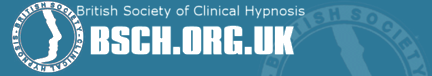
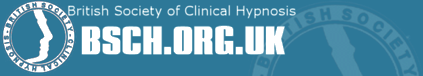
change colors as per Sue's design

diff --git a/css/app.css b/css/app.css
@@ -1518,7 +1518,7 @@ select {
   position: relative;
   padding: 0.875rem 1.5rem 0.875rem 0.875rem;
   font-size: 0.8125rem;
-  background-color: #2e72b5;
+  background-color: #1d71b8;
   border-color: #28629c;
   color: white;
 }
@@ -1562,7 +1562,7 @@ select {
 }
 /* line 116, ../bower_components/foundation/scss/foundation/components/_alert-boxes.scss */
 .alert-box.secondary {
-  background-color: #1a456d;
+  background-color: #0051a0;
   border-color: #163b5e;
   color: white;
 }
@@ -3309,7 +3309,7 @@ select {
 .breadcrumbs > * a,
 .breadcrumbs > * span {
   text-transform: uppercase;
-  color: #2e72b5;
+  color: #1d71b8;
 }
 /* line 75, ../bower_components/foundation/scss/foundation/components/_breadcrumbs.scss */
 .breadcrumbs > *.current {
@@ -3373,7 +3373,7 @@ button, .button {
   padding-left: 2rem;
   font-size: 1rem;
   /*     @else                            { font-size: $padding - rem-calc(2); } */
-  background-color: #2e72b5;
+  background-color: #1d71b8;
   border-color: #255b91;
   color: white;
   -webkit-transition: background-color 300ms ease-out;
@@ -3396,7 +3396,7 @@ button:hover, button:focus, .button:hover, .button:focus {
 }
 /* line 209, ../bower_components/foundation/scss/foundation/components/_buttons.scss */
 button.secondary, .button.secondary {
-  background-color: #1a456d;
+  background-color: #0051a0;
   border-color: #153757;
   color: white;
 }
@@ -3491,7 +3491,7 @@ button.round, .button.round {
 }
 /* line 224, ../bower_components/foundation/scss/foundation/components/_buttons.scss */
 button.disabled, button[disabled], .button.disabled, .button[disabled] {
-  background-color: #2e72b5;
+  background-color: #1d71b8;
   border-color: #255b91;
   color: white;
   cursor: default;
@@ -3509,11 +3509,11 @@ button.disabled:hover, button.disabled:focus, button[disabled]:hover, button[dis
 }
 /* line 170, ../bower_components/foundation/scss/foundation/components/_buttons.scss */
 button.disabled:hover, button.disabled:focus, button[disabled]:hover, button[disabled]:focus, .button.disabled:hover, .button.disabled:focus, .button[disabled]:hover, .button[disabled]:focus {
-  background-color: #2e72b5;
+  background-color: #1d71b8;
 }
 /* line 225, ../bower_components/foundation/scss/foundation/components/_buttons.scss */
 button.disabled.secondary, button[disabled].secondary, .button.disabled.secondary, .button[disabled].secondary {
-  background-color: #1a456d;
+  background-color: #0051a0;
   border-color: #153757;
   color: white;
   cursor: default;
@@ -3531,7 +3531,7 @@ button.disabled.secondary:hover, button.disabled.secondary:focus, button[disable
 }
 /* line 170, ../bower_components/foundation/scss/foundation/components/_buttons.scss */
 button.disabled.secondary:hover, button.disabled.secondary:focus, button[disabled].secondary:hover, button[disabled].secondary:focus, .button.disabled.secondary:hover, .button.disabled.secondary:focus, .button[disabled].secondary:hover, .button[disabled].secondary:focus {
-  background-color: #1a456d;
+  background-color: #0051a0;
 }
 /* line 226, ../bower_components/foundation/scss/foundation/components/_buttons.scss */
 button.disabled.success, button[disabled].success, .button.disabled.success, .button[disabled].success {
@@ -5199,7 +5199,7 @@ kbd {
   margin-bottom: inherit;
   padding: 0.25rem 0.5rem 0.375rem;
   font-size: 0.6875rem;
-  background-color: #2e72b5;
+  background-color: #1d71b8;
   color: white;
 }
 /* line 96, ../bower_components/foundation/scss/foundation/components/_labels.scss */
@@ -5224,7 +5224,7 @@ kbd {
 }
 /* line 101, ../bower_components/foundation/scss/foundation/components/_labels.scss */
 .label.secondary {
-  background-color: #1a456d;
+  background-color: #0051a0;
   color: white;
 }
 
@@ -5733,14 +5733,14 @@ ul.pagination li.unavailable:hover a, ul.pagination li.unavailable a:focus {
 }
 /* line 64, ../bower_components/foundation/scss/foundation/components/_pagination.scss */
 ul.pagination li.current a {
-  background: #2e72b5;
+  background: #1d71b8;
   color: white;
   font-weight: bold;
   cursor: default;
 }
 /* line 71, ../bower_components/foundation/scss/foundation/components/_pagination.scss */
 ul.pagination li.current a:hover, ul.pagination li.current a:focus {
-  background: #2e72b5;
+  background: #1d71b8;
 }
 /* line 124, ../bower_components/foundation/scss/foundation/components/_pagination.scss */
 ul.pagination li {
@@ -5822,7 +5822,7 @@ ul.pagination li {
 }
 /* line 78, ../bower_components/foundation/scss/foundation/components/_panels.scss */
 .panel.callout a:not(.button) {
-  color: #2e72b5;
+  color: #1d71b8;
 }
 /* line 83, ../bower_components/foundation/scss/foundation/components/_panels.scss */
 .panel.radius {
@@ -5901,13 +5901,13 @@ ul.pagination li {
 }
 /* line 61, ../bower_components/foundation/scss/foundation/components/_progress-bars.scss */
 .progress .meter {
-  background: #2e72b5;
+  background: #1d71b8;
   height: 100%;
   display: block;
 }
 /* line 64, ../bower_components/foundation/scss/foundation/components/_progress-bars.scss */
 .progress.secondary .meter {
-  background: #1a456d;
+  background: #0051a0;
   height: 100%;
   display: block;
 }
@@ -5991,7 +5991,7 @@ ul.pagination li {
 }
 /* line 130, ../bower_components/foundation/scss/foundation/components/_range-slider.scss */
 .range-slider.radius .range-slider-handle {
-  background: #2e72b5;
+  background: #1d71b8;
   -webkit-border-radius: 3px;
   border-radius: 3px;
 }
@@ -6007,7 +6007,7 @@ ul.pagination li {
 }
 /* line 134, ../bower_components/foundation/scss/foundation/components/_range-slider.scss */
 .range-slider.round .range-slider-handle {
-  background: #2e72b5;
+  background: #1d71b8;
   -webkit-border-radius: 1000px;
   border-radius: 1000px;
 }
@@ -6034,7 +6034,7 @@ ul.pagination li {
   height: 1.375rem;
   border: 1px solid none;
   cursor: pointer;
-  background: #2e72b5;
+  background: #1d71b8;
 }
 /* line 99, ../bower_components/foundation/scss/foundation/components/_range-slider.scss */
 .range-slider-handle:hover {
@@ -6214,7 +6214,7 @@ dialog[open] {
 /* line 66, ../bower_components/foundation/scss/foundation/components/_side-nav.scss */
 .side-nav li a:not(.button) {
   display: block;
-  color: #2e72b5;
+  color: #1d71b8;
 }
 /* line 70, ../bower_components/foundation/scss/foundation/components/_side-nav.scss */
 .side-nav li a:not(.button):hover, .side-nav li a:not(.button):focus {
@@ -6419,7 +6419,7 @@ dialog[open] {
   -webkit-border-radius: 3px;
   border-radius: 3px;
   font-weight: normal;
-  background: #2e72b5;
+  background: #1d71b8;
   padding: 0.1875rem 1rem;
   cursor: default;
   color: white;
@@ -6867,7 +6867,7 @@ table tfoot tr td {
 /* line 44, ../bower_components/foundation/scss/foundation/components/_tooltips.scss */
 .has-tip:hover, .has-tip:focus {
   border-bottom: dotted 1px #153351;
-  color: #2e72b5;
+  color: #1d71b8;
 }
 /* line 50, ../bower_components/foundation/scss/foundation/components/_tooltips.scss */
 .has-tip.tip-left, .has-tip.tip-right {
@@ -6921,7 +6921,7 @@ table tfoot tr td {
 }
 /* line 93, ../bower_components/foundation/scss/foundation/components/_tooltips.scss */
 .tooltip.opened {
-  color: #2e72b5 !important;
+  color: #1d71b8 !important;
   border-bottom: dotted 1px #153351 !important;
 }
 
@@ -6976,7 +6976,7 @@ meta.foundation-mq-topbar {
 /* line 108, ../bower_components/foundation/scss/foundation/components/_top-bar.scss */
 .contain-to-grid {
   width: 100%;
-  background: #2e72b5;
+  background: #1d71b8;
 }
 /* line 112, ../bower_components/foundation/scss/foundation/components/_top-bar.scss */
 .contain-to-grid .top-bar {
@@ -7016,7 +7016,7 @@ meta.foundation-mq-topbar {
   height: 30px;
   line-height: 30px;
   position: relative;
-  background: #2e72b5;
+  background: #1d71b8;
   margin-bottom: 10px;
 }
 /* line 151, ../bower_components/foundation/scss/foundation/components/_top-bar.scss */
@@ -7125,7 +7125,7 @@ meta.foundation-mq-topbar {
 }
 /* line 261, ../bower_components/foundation/scss/foundation/components/_top-bar.scss */
 .top-bar.expanded .title-area {
-  background: #2e72b5;
+  background: #1d71b8;
 }
 /* line 264, ../bower_components/foundation/scss/foundation/components/_top-bar.scss */
 .top-bar.expanded .toggle-topbar a {
@@ -7151,7 +7151,7 @@ meta.foundation-mq-topbar {
   width: 100%;
   height: auto;
   display: block;
-  background: #1a456d;
+  background: #0051a0;
   font-size: 16px;
   margin: 0;
 }
@@ -7174,11 +7174,11 @@ meta.foundation-mq-topbar {
   font-size: 0.8125rem;
   font-weight: normal;
   text-transform: none;
-  background: #1a456d;
+  background: #0051a0;
 }
 /* line 321, ../bower_components/foundation/scss/foundation/components/_top-bar.scss */
 .top-bar-section ul li > a.button {
-  background: #2e72b5;
+  background: #1d71b8;
   font-size: 0.8125rem;
   padding-right: 10px;
   padding-left: 10px;
@@ -7189,7 +7189,7 @@ meta.foundation-mq-topbar {
 }
 /* line 330, ../bower_components/foundation/scss/foundation/components/_top-bar.scss */
 .top-bar-section ul li > a.button.secondary {
-  background: #1a456d;
+  background: #0051a0;
 }
 /* line 332, ../bower_components/foundation/scss/foundation/components/_top-bar.scss */
 .top-bar-section ul li > a.button.secondary:hover {
@@ -7213,12 +7213,12 @@ meta.foundation-mq-topbar {
 }
 /* line 352, ../bower_components/foundation/scss/foundation/components/_top-bar.scss */
 .top-bar-section ul li:hover:not(.has-form) > a {
-  background: #1a456d;
+  background: #0051a0;
   color: white;
 }
 /* line 359, ../bower_components/foundation/scss/foundation/components/_top-bar.scss */
 .top-bar-section ul li.active > a {
-  background: #1a456d;
+  background: #0051a0;
   color: white;
 }
 /* line 362, ../bower_components/foundation/scss/foundation/components/_top-bar.scss */
@@ -7331,7 +7331,7 @@ meta.foundation-mq-topbar {
 @media only screen and (min-width: 40.063em) {
   /* line 447, ../bower_components/foundation/scss/foundation/components/_top-bar.scss */
   .top-bar {
-    background: #2e72b5;
+    background: #1d71b8;
     *zoom: 1;
     overflow: visible;
   }
@@ -7365,7 +7365,7 @@ meta.foundation-mq-topbar {
   }
   /* line 464, ../bower_components/foundation/scss/foundation/components/_top-bar.scss */
   .top-bar.expanded {
-    background: #2e72b5;
+    background: #1d71b8;
   }
 
   /* line 467, ../bower_components/foundation/scss/foundation/components/_top-bar.scss */
@@ -7398,18 +7398,18 @@ meta.foundation-mq-topbar {
   }
   /* line 490, ../bower_components/foundation/scss/foundation/components/_top-bar.scss */
   .top-bar-section li.hover > a:not(.button) {
-    background: #1a456d;
+    background: #0051a0;
     color: white;
   }
   /* line 496, ../bower_components/foundation/scss/foundation/components/_top-bar.scss */
   .top-bar-section li:not(.has-form) a:not(.button) {
     padding: 0 10px;
     line-height: 30px;
-    background: #2e72b5;
+    background: #1d71b8;
   }
   /* line 500, ../bower_components/foundation/scss/foundation/components/_top-bar.scss */
   .top-bar-section li:not(.has-form) a:not(.button):hover {
-    background: #1a456d;
+    background: #0051a0;
   }
   /* line 504, ../bower_components/foundation/scss/foundation/components/_top-bar.scss */
   .top-bar-section li.active:not(.has-form) a:not(.button) {
@@ -7483,12 +7483,12 @@ meta.foundation-mq-topbar {
     line-height: 1;
     white-space: nowrap;
     padding: 12px 10px;
-    background: #1a456d;
+    background: #0051a0;
   }
   /* line 571, ../bower_components/foundation/scss/foundation/components/_top-bar.scss */
   .top-bar-section .dropdown li label {
     white-space: nowrap;
-    background: #1a456d;
+    background: #0051a0;
   }
   /* line 577, ../bower_components/foundation/scss/foundation/components/_top-bar.scss */
   .top-bar-section .dropdown li .dropdown {
@@ -7506,7 +7506,7 @@ meta.foundation-mq-topbar {
   }
   /* line 594, ../bower_components/foundation/scss/foundation/components/_top-bar.scss */
   .top-bar-section .has-form {
-    background: #2e72b5;
+    background: #1d71b8;
     padding: 0 10px;
     height: 30px;
   }
@@ -7531,12 +7531,12 @@ meta.foundation-mq-topbar {
 
   /* line 624, ../bower_components/foundation/scss/foundation/components/_top-bar.scss */
   .no-js .top-bar-section ul li:hover > a {
-    background: #1a456d;
+    background: #0051a0;
     color: white;
   }
   /* line 630, ../bower_components/foundation/scss/foundation/components/_top-bar.scss */
   .no-js .top-bar-section ul li:active > a {
-    background: #2e72b5;
+    background: #1d71b8;
     color: white;
   }
   /* line 638, ../bower_components/foundation/scss/foundation/components/_top-bar.scss */
@@ -8038,7 +8038,7 @@ td {
 /* Default Link Styles */
 /* line 287, ../bower_components/foundation/scss/foundation/components/_type.scss */
 a {
-  color: #2e72b5;
+  color: #1d71b8;
   text-decoration: none;
   line-height: inherit;
 }
@@ -9405,7 +9405,7 @@ th.hide-for-touch {
 
 /* line 43, ../scss/app.scss */
 .white-on-blue {
-  background-color: #1a456d;
+  background-color: #0051a0;
   color: #fff;
   padding: 20px;
 }
@@ -9424,6 +9424,7 @@ th.hide-for-touch {
 /* line 53, ../scss/app.scss */
 .logo {
   height: 85px;
+  margin-top: 20px;
   margin-bottom: 20px;
 }
 
@@ -9440,5 +9441,5 @@ img, iframe {
 
 h4 { 
   margin: 50px 0px 0px 30px; 
-  color: #1a456d;
+  color: #0051a0;
 }
